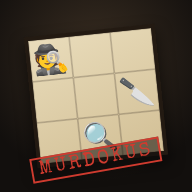
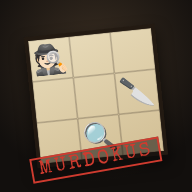
Personajes con tonos de piel claros y oscuros en lugar del amarillo
También se mueve la posición del sospechoso junto a su nombre en la ficha
para que no tape las declaraciones.

Claude-Session: https://claude.ai/code/session_015cqwVkXqhyWooLpM2vtLz7

Changed region(s): [[0.1875, 0.2812, 0.375, 0.375]]

diff --git a/js/data.js b/js/data.js
@@ -40,29 +40,37 @@ export const ROOM_TYPES = [
   { name: 'Terraza',        art: 'la terraza',        objs: ['planta', 'cactus', 'silla', 'silla', 'estatua'] },
 ];
 
-// [emoji, nombre corto, papel, femenino]
+// [emoji, nombre corto, papel, femenino, tono de piel]
+// Tonos: 1 claro, 2 claro medio, 4 oscuro medio, 5 oscuro (el amarillo por defecto queda raro).
+const TONES = { 1: '\u{1F3FB}', 2: '\u{1F3FC}', 4: '\u{1F3FE}', 5: '\u{1F3FF}' };
+// El modificador va justo después del primer carácter (la persona), antes de cualquier unión ZWJ.
+const withTone = (emoji, t) => {
+  const [first, ...rest] = [...emoji];
+  return first + TONES[t] + rest.join('');
+};
+
 export const PEOPLE = [
-  ['🤵', 'Alfred', 'el mayordomo', 0],
-  ['👨🍳', 'Ramírez', 'el chef', 0],
-  ['👩⚕', 'Dra. Vidal', 'la médica de la familia', 1],
-  ['🧛', 'Conde Varga', 'el aristócrata', 0],
-  ['👵', 'Lady Ashworth', 'la viuda', 1],
-  ['💃', 'Carmen', 'la cantante', 1],
-  ['👨🎨', 'Monsieur Blanc', 'el pintor', 0],
-  ['👩🔬', 'Prof. Ríos', 'la científica', 1],
-  ['👨✈', 'Capitán Rojas', 'el aviador', 0],
-  ['👩🌾', 'Rosa', 'la jardinera', 1],
-  ['👸', 'Duquesa Imperia', 'la heredera', 1],
-  ['🤠', 'Coronel Cruz', 'el coronel retirado', 0],
-  ['👩💼', 'Sra. Prado', 'la abogada', 1],
-  ['👨⚖', 'Juez Navarro', 'el juez', 0],
-  ['👩🎤', 'Lola Starr', 'la estrella del jazz', 1],
-  ['🧔', 'Tío Ernesto', 'el tío rico', 0],
-  ['👨💼', 'Don Julián', 'el banquero', 0],
-  ['👩🍳', 'Doña Pilar', 'la cocinera', 1],
-  ['👨🏫', 'Prof. Mora', 'el profesor', 0],
-  ['👩🦰', 'Miss Marlow', 'la periodista', 1],
-].map(([emoji, short, role, f]) => ({ emoji, short, role, f }));
+  ['🤵', 'Alfred', 'el mayordomo', 0, 1],
+  ['👨🍳', 'Ramírez', 'el chef', 0, 4],
+  ['👩⚕', 'Dra. Vidal', 'la médica de la familia', 1, 5],
+  ['🧛', 'Conde Varga', 'el aristócrata', 0, 1],
+  ['👵', 'Lady Ashworth', 'la viuda', 1, 1],
+  ['💃', 'Carmen', 'la cantante', 1, 4],
+  ['👨🎨', 'Monsieur Blanc', 'el pintor', 0, 2],
+  ['👩🔬', 'Prof. Ríos', 'la científica', 1, 2],
+  ['👨✈', 'Capitán Rojas', 'el aviador', 0, 5],
+  ['👩🌾', 'Rosa', 'la jardinera', 1, 4],
+  ['👸', 'Duquesa Imperia', 'la heredera', 1, 1],
+  ['💂', 'Coronel Cruz', 'el coronel retirado', 0, 2],
+  ['👩💼', 'Sra. Prado', 'la abogada', 1, 2],
+  ['👨⚖', 'Juez Navarro', 'el juez', 0, 5],
+  ['👩🎤', 'Lola Starr', 'la estrella del jazz', 1, 5],
+  ['🧔', 'Tío Ernesto', 'el tío rico', 0, 1],
+  ['👨💼', 'Don Julián', 'el banquero', 0, 4],
+  ['👩🍳', 'Doña Pilar', 'la cocinera', 1, 1],
+  ['👨🏫', 'Prof. Mora', 'el profesor', 0, 4],
+  ['👩🦰', 'Miss Marlow', 'la periodista', 1, 2],
+].map(([emoji, short, role, f, t]) => ({ emoji: withTone(emoji, t), short, role, f }));
 
 export const PLACES = [
   'la Mansión Blackwood', 'Villa Esperanza', 'el Hotel Gran Continental', 'el Castillo de Montenegro',

diff --git a/css/style.css b/css/style.css
@@ -322,7 +322,7 @@ button { font: inherit; color: inherit; touch-action: manipulation; -webkit-tap-
 .c-clues li.none { color: var(--ink-soft); font-style: italic; }
 .c-clues li.none::before { content: ''; }
 .card .stamp { position: absolute; right: 10px; top: 8px; font-size: 10px; padding: 1px 6px; }
-.card .c-pos { position: absolute; right: 10px; bottom: 8px; font-family: var(--type); font-size: 11px; color: var(--red); }
+.card .c-pos { font-family: var(--type); font-size: 11px; color: var(--red); white-space: nowrap; vertical-align: 2px; }
 
 /* ---------- Modal ---------- */
 .modal { position: fixed; inset: 0; z-index: 40; display: flex; align-items: center; justify-content: center; padding: 16px; background: rgba(8, 6, 4, .78); backdrop-filter: blur(3px); animation: fade .2s; }

diff --git a/js/app.js b/js/app.js
@@ -309,12 +309,11 @@ function renderDossier() {
     return `<div class="card${p === puz.victim ? ' victim' : ''}${p === selected ? ' sel' : ''}" data-p="${p}" role="button" tabindex="0">
       <div class="mug">${pe.emoji}</div>
       <div>
-        <p class="c-name">${esc(pe.short)}</p>
+        <p class="c-name">${esc(pe.short)}${c >= 0 ? ` <span class="c-pos">📍 ${coord(c, puz.n)}</span>` : ''}</p>
         <p class="c-role">${esc(pe.role)}</p>
         <ul class="c-clues">${clues}</ul>
       </div>
       ${p === puz.victim ? '<span class="stamp">Víctima</span>' : ''}
-      ${c >= 0 ? `<span class="c-pos">📍 ${coord(c, puz.n)}</span>` : ''}
     </div>`;
   }).join('');
   $('#dossier').innerHTML = `

diff --git a/sw.js b/sw.js
@@ -1,5 +1,5 @@
 // Red primero y caché como respaldo: siempre la última versión, y funciona sin conexión.
-const CACHE = 'murdokus-v1';
+const CACHE = 'murdokus-v2';
 const CORE = ['./', 'index.html', 'css/style.css', 'js/app.js', 'js/generator.js', 'js/solver.js', 'js/data.js', 'js/rng.js', 'manifest.webmanifest', 'icons/icon-192.png'];
 
 self.addEventListener('install', (e) => {
